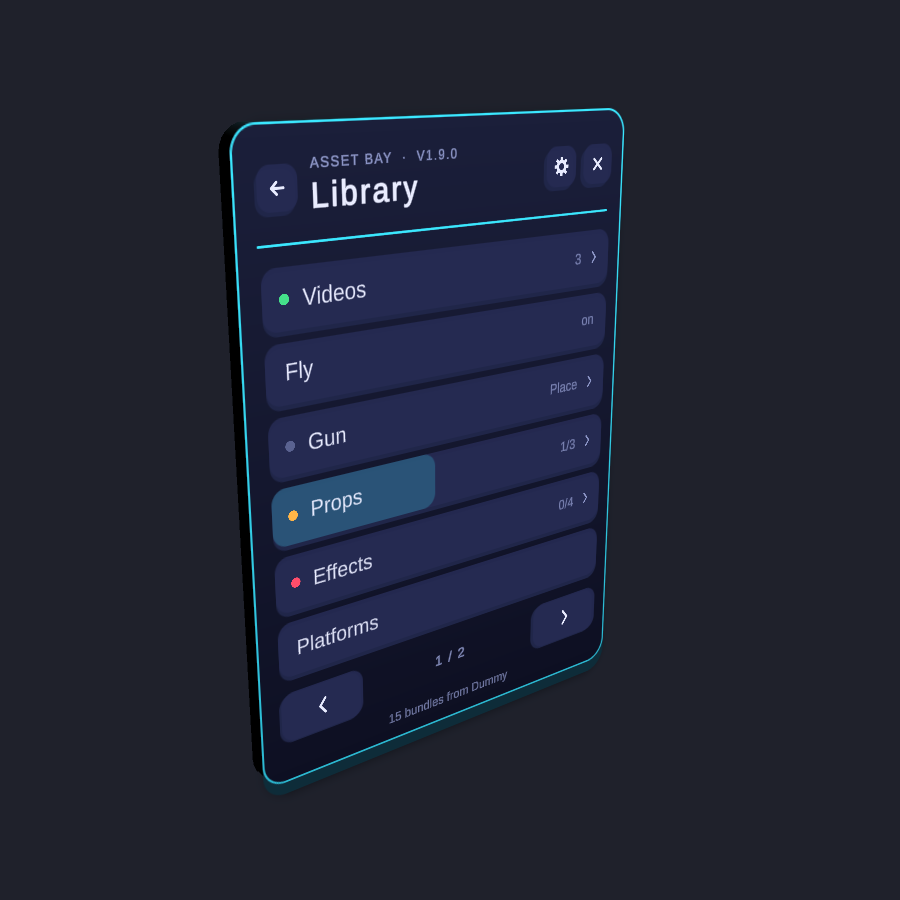
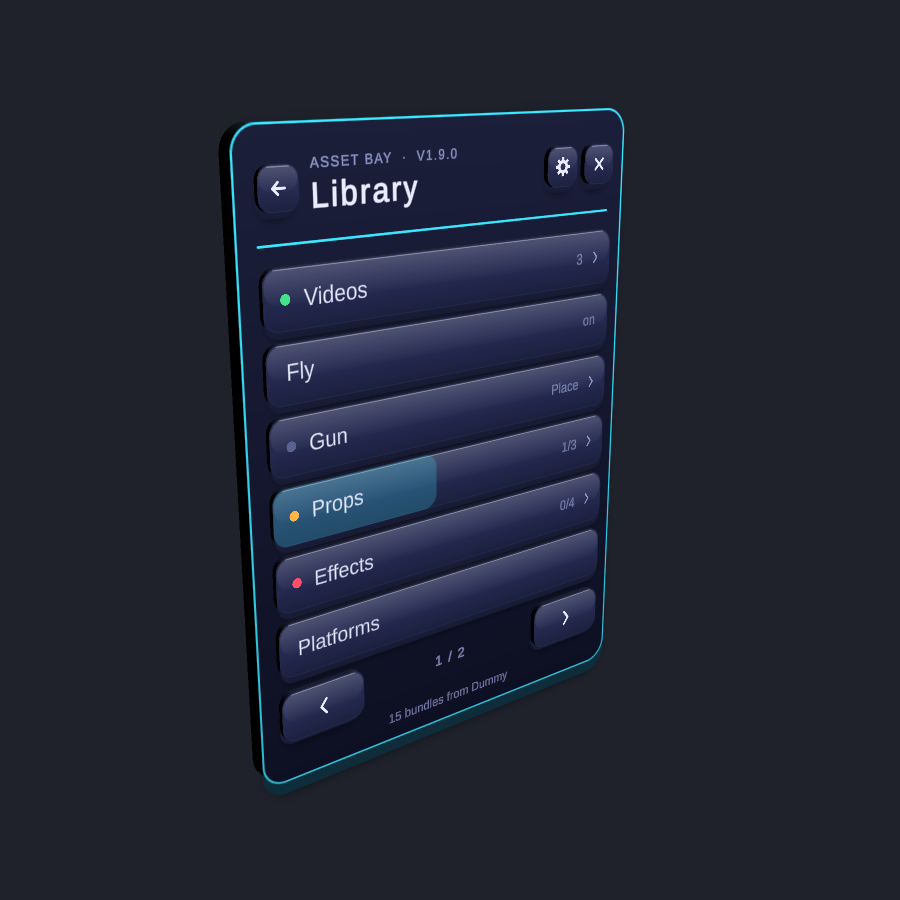
3D keys: lit faces, thick shadowed bases, real blocks in the world; rounder themes

diff --git a/BundleMenuTest/Assets/BundleMenu/Runtime/UI/MenuTheme.cs b/BundleMenuTest/Assets/BundleMenu/Runtime/UI/MenuTheme.cs
@@ -74,7 +74,9 @@ namespace BundleMenu
         [Tooltip("Panel thickness in UI units: the visible edge under the panel, and the 3D slab behind it in the world.")]
         [Range(0, 32)] public float Depth = 12f;
         [Tooltip("How far buttons stand off their base; they travel down this far when pressed.")]
-        [Range(0, 10)] public float ButtonDepth = 4f;
+        [Range(0, 10)] public float ButtonDepth = 6f;
+        [Tooltip("How strongly buttons are lit like physical keys (top light, bottom shade, edge highlight). 0 = flat.")]
+        [Range(0, 1)] public float Bevel = 1f;
         public Color PatternColor = new Color(1, 1, 1, 0.06f);
 
         [Header("Status lights")]
@@ -149,7 +151,7 @@ namespace BundleMenu
                     t.StatusIdle = MenuTheme.Hex(0xD9C2B0); t.StatusBusy = MenuTheme.Hex(0xF2A33A);
                     t.StatusOk = MenuTheme.Hex(0x2DBE72); t.StatusError = MenuTheme.Hex(0xE8334F);
                     t.Style = MenuStyle.Switchboard;
-                    t.GlowStrength = 0f; t.Depth = 14f; t.ButtonDepth = 5f;
+                    t.GlowStrength = 0f; t.Depth = 14f; t.ButtonDepth = 7f;
                     break;
 
                 // Oscilloscope: black glass, phosphor green, square corners, outlined buttons, spaced caps.
@@ -157,10 +159,10 @@ namespace BundleMenu
                     t.DisplayName = "Circuit";
                     t.PanelTop = MenuTheme.Hex(0x0A120E); t.PanelBottom = MenuTheme.Hex(0x040806);
                     t.EdgeTop = MenuTheme.Hex(0x39FF88); t.EdgeBottom = MenuTheme.Hex(0x00B894);
-                    t.EdgeWidth = 1.5f; t.PanelRadius = 4f; t.GlowStrength = 0.45f;
+                    t.EdgeWidth = 1.5f; t.PanelRadius = 14f; t.GlowStrength = 0.45f;
                     t.Accent = MenuTheme.Hex(0x39FF88); t.Accent2 = MenuTheme.Hex(0x00C2A8);
-                    t.ButtonRadius = 2f;
-                    t.ButtonFill = MenuTheme.Hex(0x0F1F17, 0.9f);
+                    t.ButtonRadius = 8f;
+                    t.ButtonFill = MenuTheme.Hex(0x0F1F17, 0.95f);
                     t.ButtonFillHover = MenuTheme.Hex(0x163324);
                     t.ButtonFillPressed = MenuTheme.Hex(0x1F4A33);
                     t.ButtonEdge = MenuTheme.Hex(0x39FF88, 0.35f);
@@ -172,7 +174,7 @@ namespace BundleMenu
                     t.StatusIdle = MenuTheme.Hex(0x1F4A33); t.StatusBusy = MenuTheme.Hex(0xE8FF5A);
                     t.StatusOk = MenuTheme.Hex(0x39FF88); t.StatusError = MenuTheme.Hex(0xFF5A5A);
                     t.Style = MenuStyle.Console; t.Pattern = PanelPattern.Scanlines; t.PatternColor = MenuTheme.Hex(0x39FF88, 0.05f);
-                    t.GlowStrength = 0f; t.Depth = 8f; t.ButtonDepth = 3f;
+                    t.GlowStrength = 0f; t.Depth = 10f; t.ButtonDepth = 5f;
                     break;
 
                 // Theatre: deep wine panel, brushed-gold rim and accents, small caps, slim outlined buttons.
@@ -234,16 +236,16 @@ namespace BundleMenu
                     t.Hover = HoverStyle.Glow;
                     t.EntranceOverride = (int)EntranceStyle.Fade;
                     t.Style = MenuStyle.Cards;
-                    t.GlowStrength = 0f; t.Depth = 3f; t.ButtonDepth = 1.5f;
+                    t.GlowStrength = 0f; t.Depth = 3f; t.ButtonDepth = 2f; t.Bevel = 0.4f;
                     break;
 
                 // Minimal: no boxes, just text rows with a thin accent line; hovering slides the row.
                 case ThemePreset.Minimal:
                     t.DisplayName = "Minimal";
                     t.PanelTop = MenuTheme.Hex(0x111214); t.PanelBottom = MenuTheme.Hex(0x111214);
-                    t.EdgeWidth = 0f; t.PanelRadius = 10f; t.GlowStrength = 0f;
+                    t.EdgeWidth = 0f; t.PanelRadius = 18f; t.GlowStrength = 0f;
                     t.Accent = MenuTheme.Hex(0xF2F2F2); t.Accent2 = MenuTheme.Hex(0x8A8A8A);
-                    t.ButtonRadius = 4f;
+                    t.ButtonRadius = 10f;
                     t.ButtonFill = MenuTheme.Hex(0xFFFFFF, 0f); t.ButtonFillHover = MenuTheme.Hex(0xFFFFFF, 0.05f);
                     t.ButtonFillPressed = MenuTheme.Hex(0xFFFFFF, 0.1f);
                     t.ButtonEdge = MenuTheme.Hex(0xFFFFFF, 0f); t.ButtonEdgeHover = MenuTheme.Hex(0xFFFFFF, 0f);
@@ -253,7 +255,7 @@ namespace BundleMenu
                     t.EntranceOverride = (int)EntranceStyle.SlideRight;
                     t.StatusIdle = MenuTheme.Hex(0x3A3A3A);
                     t.Style = MenuStyle.Checklist;
-                    t.Depth = 0f; t.ButtonDepth = 0f;
+                    t.Depth = 0f; t.ButtonDepth = 0f; t.Bevel = 0f;
                     break;
 
                 // Neon: black glass, hot pink / cyan tubes that flicker, outlined rows.
@@ -273,7 +275,7 @@ namespace BundleMenu
                     t.Hover = HoverStyle.Glow; t.Flicker = 0.6f;
                     t.EntranceOverride = (int)EntranceStyle.Cascade;
                     t.Style = MenuStyle.Pillars; t.Pattern = PanelPattern.Grid; t.PatternColor = MenuTheme.Hex(0x22E4FF, 0.05f);
-                    t.Depth = 6f; t.ButtonDepth = 2f;
+                    t.Depth = 8f; t.ButtonDepth = 4f; t.Bevel = 0.5f;
                     break;
 
                 // Timber: a carved wooden sign. Wood grain, pale planks, rope-hung. Pairs with Signboard.
@@ -281,9 +283,9 @@ namespace BundleMenu
                     t.DisplayName = "Timber";
                     t.PanelTop = MenuTheme.Hex(0x7A4E2D); t.PanelBottom = MenuTheme.Hex(0x4E3019);
                     t.EdgeTop = MenuTheme.Hex(0x3A2211); t.EdgeBottom = MenuTheme.Hex(0x24150A);
-                    t.EdgeWidth = 5f; t.PanelRadius = 12f; t.GlowStrength = 0f;
+                    t.EdgeWidth = 5f; t.PanelRadius = 18f; t.GlowStrength = 0f;
                     t.Accent = MenuTheme.Hex(0xF4C95D); t.Accent2 = MenuTheme.Hex(0xE08A3C);
-                    t.ButtonRadius = 8f;
+                    t.ButtonRadius = 12f;
                     t.ButtonFill = MenuTheme.Hex(0xD9C3A0); t.ButtonFillHover = MenuTheme.Hex(0xEBD8B6);
                     t.ButtonFillPressed = MenuTheme.Hex(0xC4A87F);
                     t.ButtonEdge = MenuTheme.Hex(0x3A2211, 0.6f); t.ButtonEdgeHover = MenuTheme.Hex(0xF4C95D);
@@ -296,7 +298,7 @@ namespace BundleMenu
                     t.Hover = HoverStyle.Grow; t.RowHeight = 50f; t.LabelSize = 18f;
                     t.EntranceOverride = (int)EntranceStyle.Pop;
                     t.Style = MenuStyle.Signboard; t.Pattern = PanelPattern.Wood; t.PatternColor = MenuTheme.Hex(0x1E1008, 0.35f);
-                    t.Depth = 22f; t.ButtonDepth = 5f;
+                    t.Depth = 22f; t.ButtonDepth = 7f;
                     break;
 
                 // Parchment: an old field journal. Cream paper, ink text, leather spine. Pairs with Book.
@@ -304,10 +306,10 @@ namespace BundleMenu
                     t.DisplayName = "Parchment";
                     t.PanelTop = MenuTheme.Hex(0xF3E7C9); t.PanelBottom = MenuTheme.Hex(0xE6D3A8);
                     t.EdgeTop = MenuTheme.Hex(0x6B3F22); t.EdgeBottom = MenuTheme.Hex(0x4A2A15);
-                    t.EdgeWidth = 6f; t.PanelRadius = 10f; t.GlowStrength = 0.15f;
+                    t.EdgeWidth = 6f; t.PanelRadius = 16f; t.GlowStrength = 0.15f;
                     t.Accent = MenuTheme.Hex(0x8C2F1B); t.Accent2 = MenuTheme.Hex(0x2F5D8C);
-                    t.ButtonRadius = 6f;
-                    t.ButtonFill = MenuTheme.Hex(0xFFF8E6, 0.9f); t.ButtonFillHover = MenuTheme.Hex(0xFFFDF4);
+                    t.ButtonRadius = 10f;
+                    t.ButtonFill = MenuTheme.Hex(0xFFF8E6, 0.95f); t.ButtonFillHover = MenuTheme.Hex(0xFFFDF4);
                     t.ButtonFillPressed = MenuTheme.Hex(0xE9D9B4);
                     t.ButtonEdge = MenuTheme.Hex(0x6B3F22, 0.35f); t.ButtonEdgeHover = MenuTheme.Hex(0x8C2F1B);
                     t.ButtonEdgeWidth = 1.5f;
@@ -319,7 +321,7 @@ namespace BundleMenu
                     t.RowHeight = 52f; t.LabelSize = 19f;
                     t.EntranceOverride = (int)EntranceStyle.Fade;
                     t.Style = MenuStyle.Book; t.Pattern = PanelPattern.Paper; t.PatternColor = MenuTheme.Hex(0x6B3F22, 0.5f);
-                    t.GlowStrength = 0f; t.Depth = 16f; t.ButtonDepth = 3f;
+                    t.GlowStrength = 0f; t.Depth = 16f; t.ButtonDepth = 5f;
                     break;
 
                 default:

diff --git a/BundleMenuTest/Assets/BundleMenu/Runtime/UI/Bevel.cs b/BundleMenuTest/Assets/BundleMenu/Runtime/UI/Bevel.cs
@@ -1,0 +1,67 @@
+using UnityEngine;
+using UnityEngine.UI;
+
+namespace BundleMenu
+{
+    /// <summary>
+    /// Makes a flat button read as a physical key: light falls on the top half, the bottom half is in
+    /// shade, a thin highlight catches the top edge, a darker base with a soft shadow sits underneath,
+    /// and in the world a real extruded block gives it thickness you can see from the side.
+    /// </summary>
+    public static class Bevel
+    {
+        /// <summary>Lighting layers on the button face. Put them under the label (sibling index 0).</summary>
+        public static void Face(Transform body, MenuTheme t, float radius)
+        {
+            float k = t.Bevel;
+            if (k <= 0f) return;
+
+            var sheen = UIFactory.Image(body, "Sheen", UISprites.RoundedFill(radius), Color.white);
+            sheen.rectTransform.anchorMin = new Vector2(0f, 0.4f);
+            sheen.rectTransform.anchorMax = Vector2.one;
+            sheen.rectTransform.offsetMin = new Vector2(1f, 0f);
+            sheen.rectTransform.offsetMax = new Vector2(-1f, -1f);
+            sheen.gameObject.AddComponent<UIGradient>().Set(new Color(1, 1, 1, 0.20f * k), new Color(1, 1, 1, 0f));
+            sheen.transform.SetSiblingIndex(0);
+
+            var shade = UIFactory.Image(body, "Shade", UISprites.RoundedFill(radius), Color.white);
+            shade.rectTransform.anchorMin = Vector2.zero;
+            shade.rectTransform.anchorMax = new Vector2(1f, 0.5f);
+            shade.rectTransform.offsetMin = new Vector2(1f, 1f);
+            shade.rectTransform.offsetMax = new Vector2(-1f, 0f);
+            shade.gameObject.AddComponent<UIGradient>().Set(new Color(0, 0, 0, 0f), new Color(0, 0, 0, 0.22f * k));
+            shade.transform.SetSiblingIndex(1);
+
+            var line = UIFactory.Image(body, "Highlight", UISprites.RoundedFill(1f), new Color(1, 1, 1, 0.32f * k));
+            line.rectTransform.anchorMin = new Vector2(0f, 1f);
+            line.rectTransform.anchorMax = Vector2.one;
+            float inset = Mathf.Max(4f, radius * 0.7f);
+            line.rectTransform.offsetMin = new Vector2(inset, -3.5f);
+            line.rectTransform.offsetMax = new Vector2(-inset, -2f);
+            line.transform.SetSiblingIndex(2);
+        }
+
+        /// <summary>
+        /// The base a key stands on, built in <paramref name="parent"/> behind the key's rect:
+        /// a soft floor shadow, then the base itself (darker toward the bottom). Returns the base.
+        /// </summary>
+        public static Image Base(Transform parent, MenuTheme t, float radius, float depth)
+        {
+            var shadow = UIFactory.Image(parent, "Shadow", UISprites.RoundedGlow(radius, 10f), new Color(0, 0, 0, 0.28f * Mathf.Max(0.3f, t.Bevel)));
+            shadow.rectTransform.Stretch(-6f, depth - 2f, -6f, -depth - 10f);
+
+            var lip = UIFactory.Image(parent, "Lip", UISprites.RoundedFill(radius), Color.white);
+            lip.rectTransform.Stretch(0, depth, 0, -depth);
+            var c = LayoutKit.LipColor(t);
+            lip.gameObject.AddComponent<UIGradient>().Set(c, RowView.Darken(c, 0.7f).WithAlpha(c.a));
+            return lip;
+        }
+
+        /// <summary>Real thickness behind the key when it's in the world (hidden on screen overlays).</summary>
+        public static void Block(RectTransform body, MenuTheme t, float radius, float depth)
+        {
+            if (t.Bevel <= 0f || depth <= 0f || t.ButtonFill.a < 0.5f) return;
+            PanelSlab.Add(body, LayoutKit.LipColor(t).WithAlpha(1f), radius, depth * 2.2f);
+        }
+    }
+}

diff --git a/BundleMenuTest/Assets/BundleMenu/Runtime/UI/Layouts/LayoutKit.cs b/BundleMenuTest/Assets/BundleMenu/Runtime/UI/Layouts/LayoutKit.cs
@@ -109,13 +109,16 @@ namespace BundleMenu
             float d = T.ButtonDepth;
             if (d <= 0f) return b;
             var rt = (RectTransform)b.transform;
-            var lip = UIFactory.Image(rt.parent, b.name + " Base", UISprites.RoundedFill(radius), LipColor(T));
-            var lrt = lip.rectTransform;
-            lrt.anchorMin = rt.anchorMin; lrt.anchorMax = rt.anchorMax; lrt.pivot = rt.pivot;
-            lrt.sizeDelta = rt.sizeDelta;
-            lrt.anchoredPosition = rt.anchoredPosition + new Vector2(0f, -d);
-            lrt.SetSiblingIndex(rt.GetSiblingIndex());
-            b.Base = lip.gameObject;
+            // A holder exactly where the key is; the base and its shadow hang below it inside.
+            var holder = UIFactory.Rect(b.name + " Base", rt.parent);
+            holder.anchorMin = rt.anchorMin; holder.anchorMax = rt.anchorMax; holder.pivot = rt.pivot;
+            holder.sizeDelta = rt.sizeDelta;
+            holder.anchoredPosition = rt.anchoredPosition;
+            holder.SetSiblingIndex(rt.GetSiblingIndex());
+            Bevel.Base(holder, T, radius, d);
+            Bevel.Face(rt, T, radius);
+            Bevel.Block(rt, T, radius, d);
+            b.Base = holder.gameObject;
             b.PressDepth = d;
             Lift(rt, d);
             return b;

diff --git a/BundleMenuTest/Assets/BundleMenu/Runtime/UI/RowView.cs b/BundleMenuTest/Assets/BundleMenu/Runtime/UI/RowView.cs
@@ -61,11 +61,7 @@ namespace BundleMenu
             // Every boxed look stands on a darker base peeking out underneath; pressing sinks the row onto it.
             // Tiles are chunkier. Borderless looks (Box, Switch) stay flat on the panel.
             float depth = look == RowLook.Tile ? Mathf.Max(5f, t.ButtonDepth) : look == RowLook.Box || look == RowLook.Switch ? 0f : t.ButtonDepth;
-            if (depth > 0f)
-            {
-                var lip = UIFactory.Image(Visual, "Lip", UISprites.RoundedFill(r), LayoutKit.LipColor(t));
-                lip.rectTransform.Stretch(0, depth, 0, -depth);
-            }
+            if (depth > 0f) Bevel.Base(Visual, t, r, depth);
 
             var fill = UIFactory.Image(Visual, "Body", UISprites.RoundedFill(r), t.ButtonFill, raycast: true);
             fill.rectTransform.Stretch();
@@ -125,6 +121,11 @@ namespace BundleMenu
             Button.FillAlpha = look == RowLook.Box ? 0.3f : look == RowLook.Switch ? 0.15f : 1f;
             Button.PressDepth = depth;
             Button.Init(t, fill, edge);
+            if (depth > 0f)
+            {
+                Bevel.Face(body, t, r);
+                Bevel.Block((RectTransform)body, t, r, depth);
+            }
         }
 
         public void Apply(RowSpec s)
